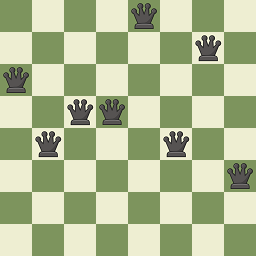
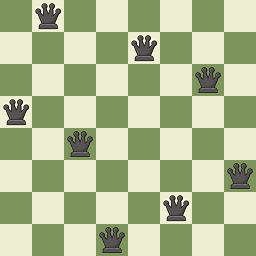
Queens question yet to be committed

diff --git a/NQueens/src/NQPermSol.java b/NQueens/src/NQPermSol.java
@@ -1,26 +1,70 @@
+import java.util.Random;
 
 public class NQPermSol extends NQueenSol {
 
-	// TODO: needs a solution representation
+	// Solution representation. Looking at the columns from left to right,
+	// this array holds in order the row coordinates of the queens.
+	// Of course this presumes the queens all have their own columns, but
+	// we will make sure of that in the instantiation.
+	int[] rowPositions;
 
-	// standard constructor
+
 	public NQPermSol(NQueenInstance inst, boolean random) {
 		super(inst);
 
-		// TODO: fill in the rest of the constructor
+		// Initialize to -1 (needed when we want randomization).
+		rowPositions = new int[inst.N];
+		for (int col = 0; col < inst.N; col++) {
+			rowPositions[col] = -1;
+		}
+
+		if (!random) {
+			// Place all queens on the diagonal
+			for (int i = 0; i < N; i++) {
+				rowPositions[i] = i;
+			}
+		}
+		else {
+			// Place queens randomly (we allow two queens on the same position)
+			Random rand = new Random();
+			for (int i = 0; i < N; i++) {
+				int rowPosition = rand.nextInt(N);
+				while (rowTaken(rowPosition)) {
+					rowPosition = rand.nextInt(N);
+				}
+				rowPositions[i] = rowPosition;
+			}
+		}
 	}
-	
-	
-	
+
+	private boolean rowTaken(int row) {
+		for (int i = 0; i < rowPositions.length; i++) {
+			if (rowPositions[i] == row) return true;
+		}
+
+		return false;
+	}
+
 	// get the position of a queen
-	public Pos getPosition(int i) {
-		
-		// TODO: must be filled in! Should return position of i^th queen
-		
-		return null;
+	public Pos getPosition(int i) { return new Pos(i, rowPositions[i]);	}
+
+	// Swaps the columns of two queens indicated by their column positions firstQueenColumn and secondQueenColumn.
+	// If both queen columns are the same, return false. Otherwise return true.
+	public boolean swapQueenColumns(int firstQueenColumn, int secondQueenColumn) {
+		if (firstQueenColumn == secondQueenColumn) return false;
+
+		int temp = rowPositions[firstQueenColumn];
+		rowPositions[firstQueenColumn] = rowPositions[secondQueenColumn];
+		rowPositions[secondQueenColumn] = temp;
+
+		return true;
 	}
-	
-	
-	// TODO: Don't forget to implement a local move (along with the undo)!
+
+	// Undo a local move (must be executed after performing the same local move for correct behavior)
+	public void undoLocalSwap(int firstQueenColumn, int secondQueenColumn) {
+		int temp = rowPositions[firstQueenColumn];
+		rowPositions[firstQueenColumn] = rowPositions[secondQueenColumn];
+		rowPositions[secondQueenColumn] = temp;
+	}
 	
 }

diff --git a/NQueens/src/NQueens.java b/NQueens/src/NQueens.java
@@ -4,9 +4,9 @@ public class NQueens {
 	public static void main(String[] args) {
 		String dataset = "8"; // choose the dataset
 		NQueenInstance inst = new NQueenInstance("data/" + dataset + ".txt"); // load the problem instance
-		NQBasicSol sol = new NQBasicSol(inst, true); // initialize a (random) solution
-		//NQPermSol sol = new NQPermSol(inst, true); // initialize a (random) solution
-		bestIterativeImprovement(inst, sol);
+//		NQBasicSol sol = new NQBasicSol(inst, true); // initialize a (random) solution
+		NQPermSol sol = new NQPermSol(inst, true); // initialize a (random) solution
+		bestIterativeImprovement2(inst, sol);
 		System.out.println("Cost = " + sol.getCost());
 		sol.visualize("figures/" + dataset + ".png");
 		sol.output("output/" + dataset + ".txt");
@@ -52,10 +52,35 @@ public class NQueens {
 	
 
 	// perform best iterative improvement (solution should be changed directly)
-	public static void bestIterativeImprovement(NQueenInstance inst, NQPermSol sol) {
-		
-		// TODO
-		
+	public static void bestIterativeImprovement2(NQueenInstance inst, NQPermSol sol) {
+		while (true) {
+			int lowestCost = sol.getCost();
+			int[] bestSwap = new int[]{-1, -1};
+
+			for (int queenOne = 0; queenOne < inst.N; queenOne++) { // For every queen
+				for (int queenTwo = queenOne + 1; queenTwo < inst.N; queenTwo++) { // For every other queen
+					if (sol.swapQueenColumns(queenOne, queenTwo)) {
+						// If swapQueenColumns returns True, swap was valid and
+						// we check new cost and have to inverse the move
+						int currentCost = sol.getCost();
+						if (currentCost < lowestCost) {
+							lowestCost = currentCost;
+							bestSwap[0] = queenOne;
+							bestSwap[1] = queenTwo;
+						}
+
+						sol.undoLocalSwap(queenOne, queenTwo);
+					}
+				}
+			}
+
+			// If we have reached a local minimum, the best improvement is as good as the current solution and thus
+			// we never got into the if statement that modifies bestMove, so we quit the while loop
+			if (bestSwap[0] == -1)
+				break;
+
+			sol.swapQueenColumns(bestSwap[0], bestSwap[1]);
+		}
 	}
 	
 }
